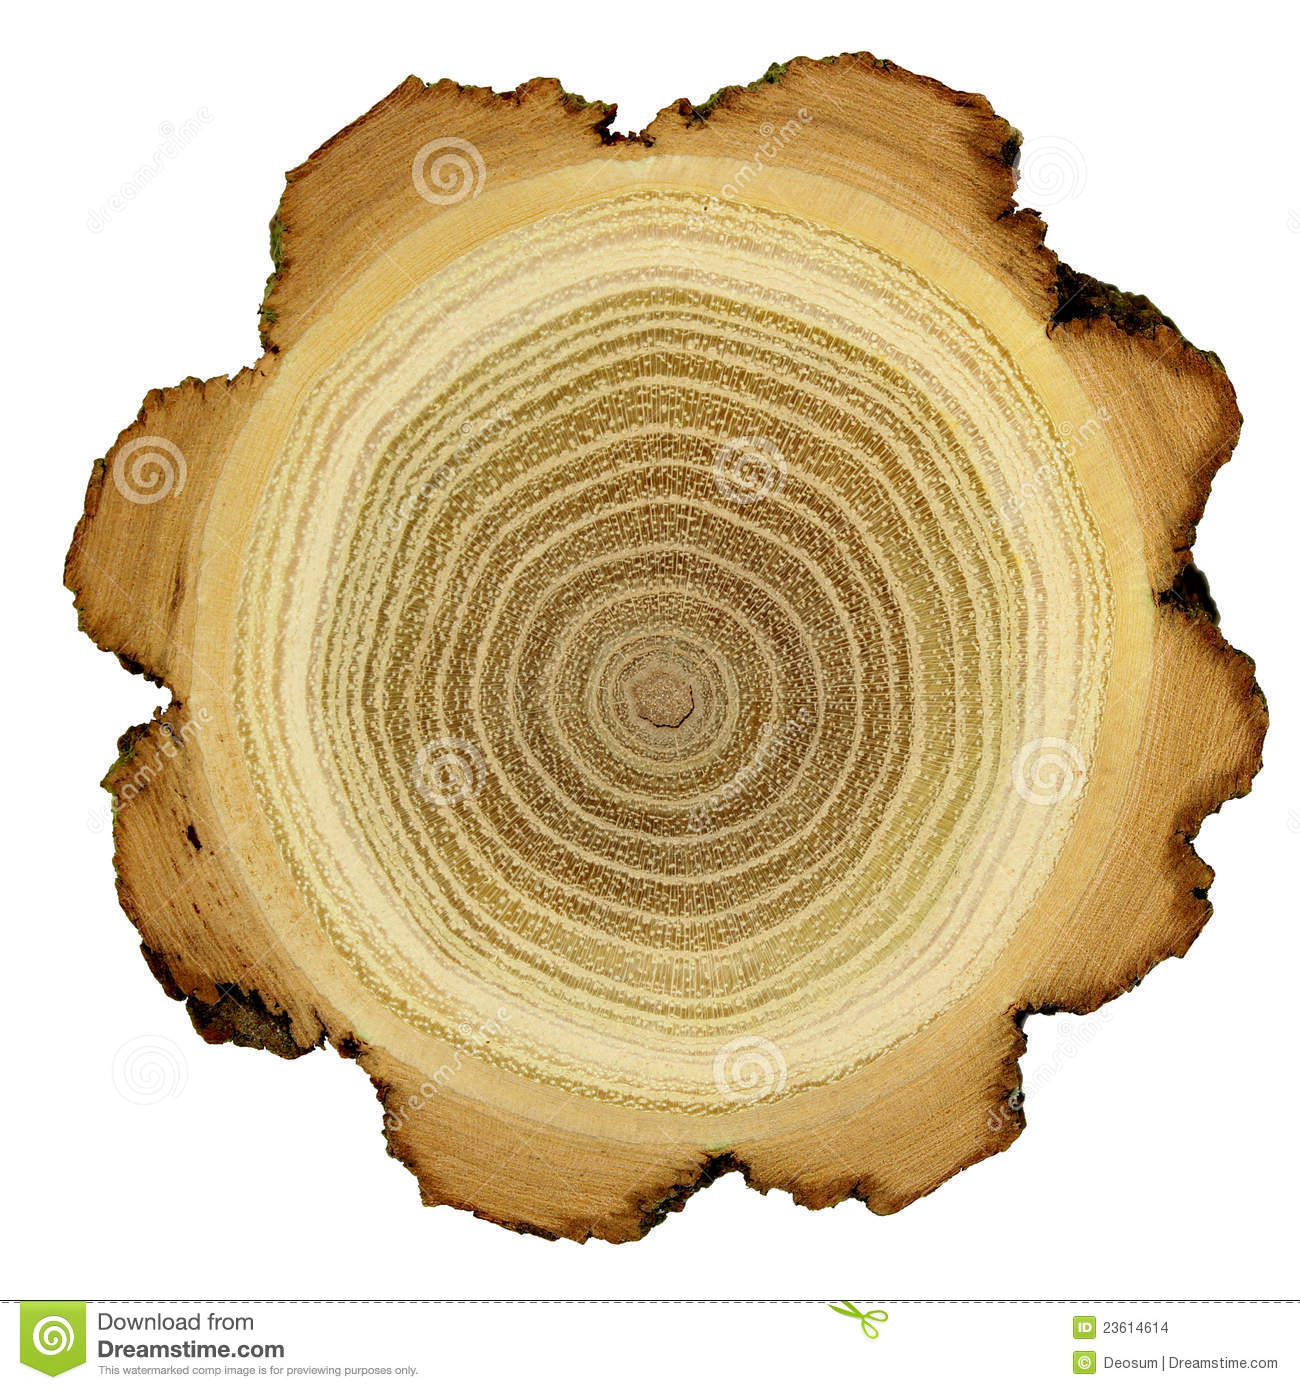
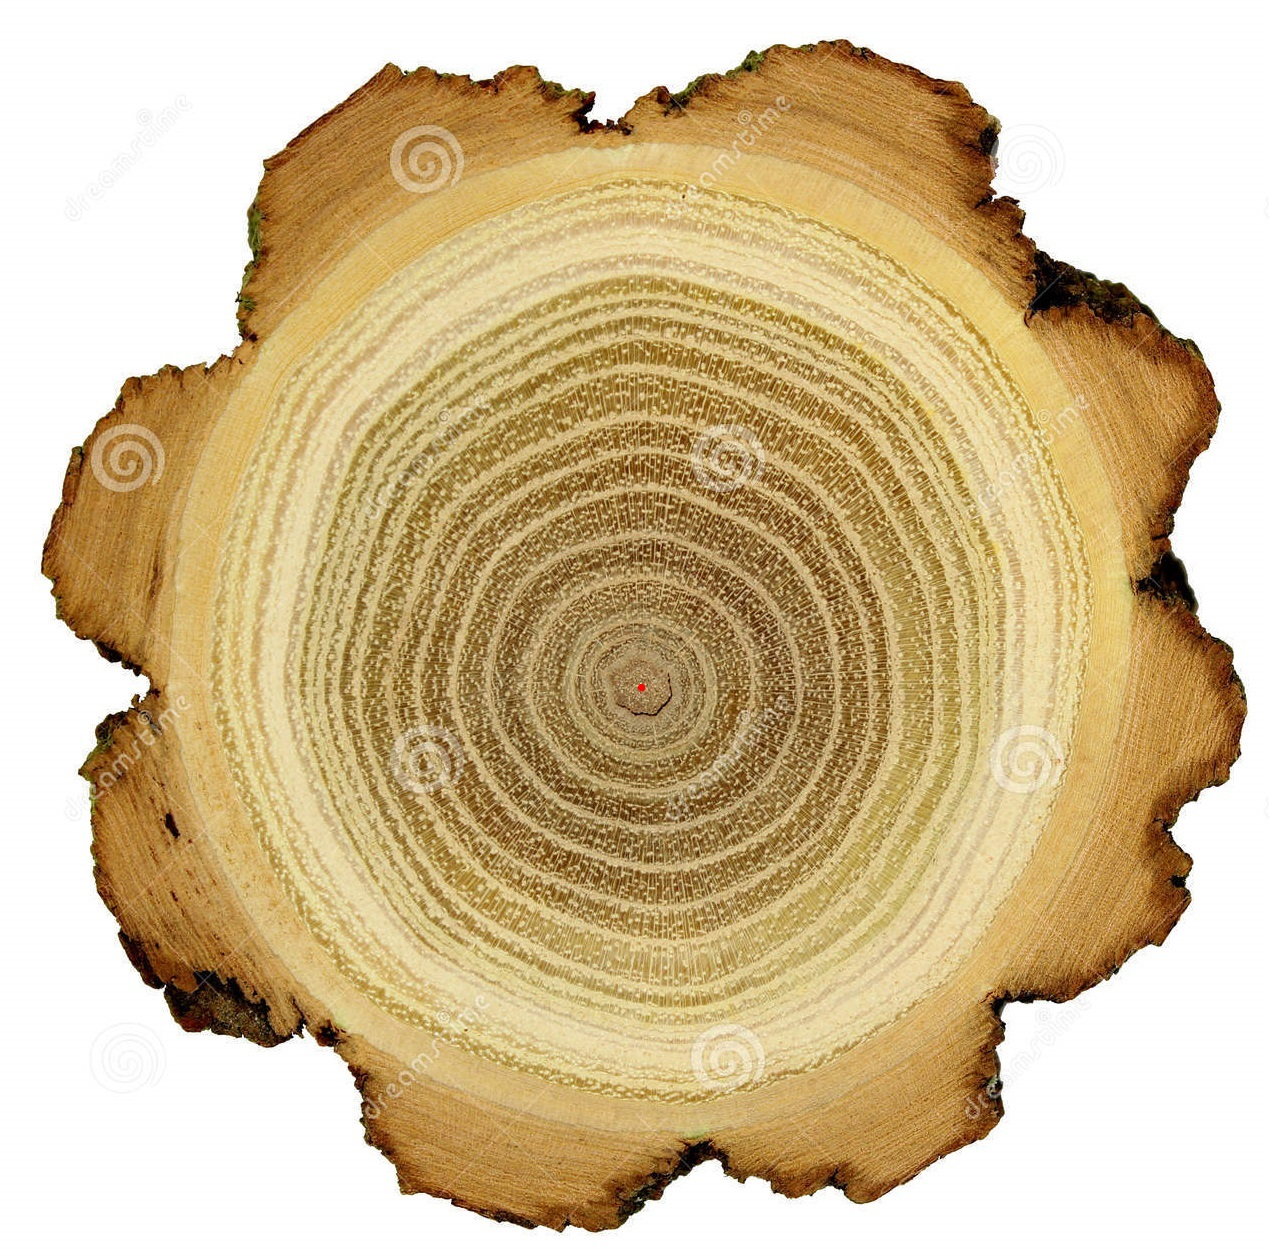
Merged find_dot function with open_image

diff --git a/main.py b/main.py
@@ -1,20 +1,15 @@
 # importing OpenCV(cv2) module
 import cv2
+import numpy as np
 
 
-# Python function to read image using OpenCV
+# Python function to read image using OpenCV and to find a red dot coordinates that should be on the middle of the
 def load_image():
-	# Save image in set directory
-	# Read RGB image
-	img = cv2.imread('Acacia_1.jpeg')
-	cv2.imshow('image', img)
-	cv2.waitKey(0)       
-	cv2.destroyAllWindows()
-
-# Python function to find a red dot coordinates that should be on the middle of the
-def find_dot():
-	print("find_dot!")
-
+	img = cv2.imread("Acacia_1.jpeg")
+	red_pixels = np.argwhere(cv2.inRange(img, (0, 0, 250), (0, 0, 255)))
+	for px, py in red_pixels:
+		cv2.circle(img, (py, px), 5, (0, 255, 255), 1)
+	cv2.imwrite("out.jpeg", img)
 
 # Python function to set multiple line from red dot to border of image
 def set_line():
